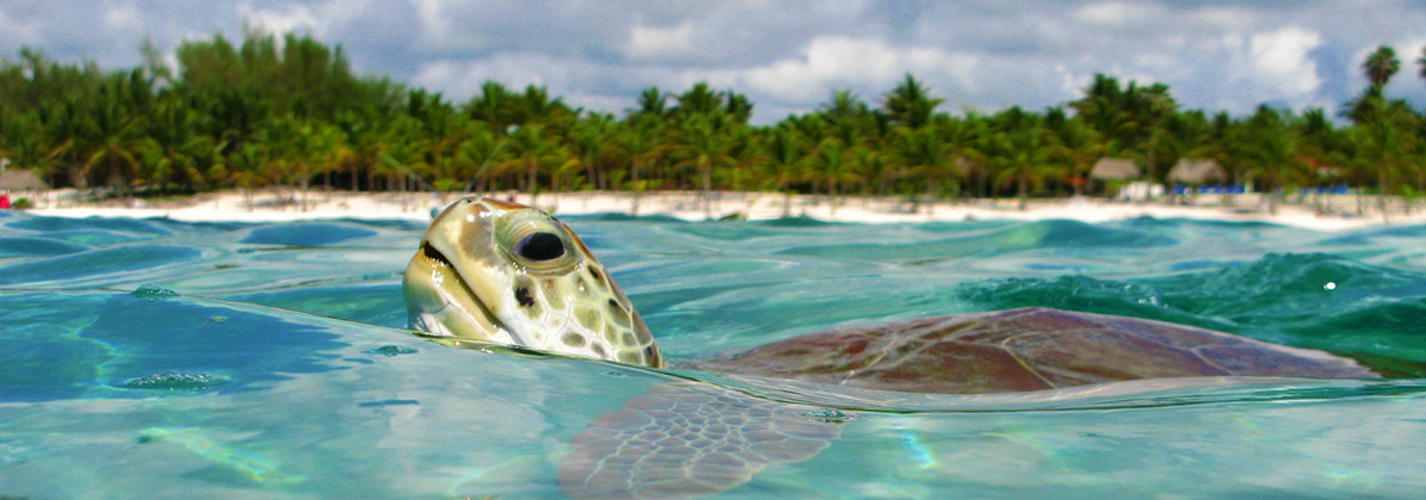
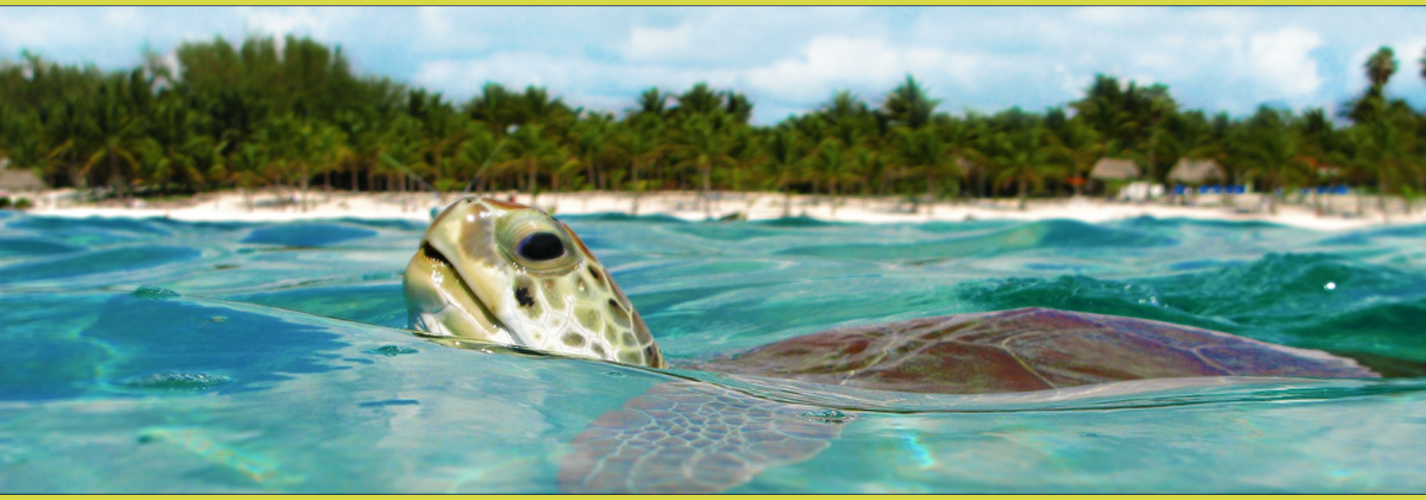
upload

diff --git a/project4/css/main.css b/project4/css/main.css
@@ -6,26 +6,40 @@
  */
  
 body {
-background: LightCyan;
+background: #193441;
 
  	}
 
 #container {
 	position: relative;
 	width: 100%;
-/* 	background-color: HoneyDew; */
 	margin: 2% auto;
  	}
  	
 div#callToAction {
 	width: 100%;
  	position: relative;
- 	background-color: LightSteelBlue;
- 	height: 500px;  /*  500px / 1183px  */
- 	background: url("../images/akumal.jpg");
  	background-repeat:no-repeat;
 	background-size:contain;
 	background-position:center;
+ 	}
+ 	
+ #call-out-title {
+ 	position: absolute;
+ 	width: 23%;
+ 	float: right;
+ 	font-family: 'Playfair Display', serif;
+ 	text-align: right;
+ 	top: 13%;
+ 	right: 5%;
+ 	font-size: 1.7em;
+ 	font-weight: bold;
+ 	font-style: italic;
+ 	color: #5F94F2;
+ 	text-shadow: 1px 1px 1px #91AA9D;
+/*  	box-shadow: 4px 4px 0 #333; */
+ 	background: rgba(252,255,245, 0.7);
+ 	padding: 0 2%;
  	}
 
 #mainContent, #secondaryContent, #connectContent {
@@ -38,18 +52,18 @@ div#callToAction {
 	}
 	
 footer {
-	width: 90%;
-	margin: 1% auto;
+	width: 100%;
+	margin-top: 1%;
 	background-color: CornflowerBlue;
 	text-align: center;
-	padding: 3% 5%;
+	padding: 0;
 	}
 	
 
 	
 .main-nav {
 	width: 70%;
-	background-color: rgba(255,255,255,0.5);
+	background-color: rgba(255,255,255,0.8);
 	margin: 2% 0;
 	padding: 2% 0;
 	text-align: center;
@@ -64,8 +78,10 @@ footer {
 	right: 0;
 	width: 100%;
 	margin: 0;
+	padding: 1%;
 	float: none;
 	z-index:1;
+	box-shadow: 1px 1px 70px #1A2842;
 	}
 	
 .rectangle {
@@ -94,6 +110,8 @@ footer {
 	
 h1 {
 	font-family: 'Leckerli One', cursive;
+	color: #5F94F2;
+	text-shadow: 1px 1px 70px #1A2842;
 	}
 	
 header {
@@ -108,6 +126,8 @@ header {
 h2 {
 	font-family: 'Playfair Display', serif;
 	font-size: 70%;
+	color: #fff;
+	text-shadow: 1px 1px 70px #1A2842;
 	}
 
 .divButton {
@@ -144,6 +164,10 @@ h2 {
 h3 {
 	margin-botom: 2%;
 	border-bottom: 1px solid black;
+	}
+	
+img {
+	max-width: 100%;
 	}
  
  

diff --git a/project4/index.html b/project4/index.html
@@ -45,6 +45,7 @@
 		
 		<!-- Favicon -->
 		<link rel="icon" type="image/png" href="images/favicooooooooon.png">
+<!-- MAKE A FAVICON -->
 		
 		
 	</head>
@@ -65,11 +66,17 @@
 			<div class="divButton ">Connect<a href="#"><span class="divButtonLink"></span></a></div>
 		</nav>
 		
+		
+		<div id="callToAction" class="clear">
+				<div id="call-out-title">
+					<p>“Akumal, the perfect diving and family destination in the heart of the Riviera Maya” <br> ---- FIX THIS BOX ----</p>
+				</div>
+				<img src="images/akumal.jpg" alt="" title=""/>
+			</div>
+		
 		<div id="container" class="clear">
 						
-			<div id="callToAction" >
-				<p>“Akumal, the perfect diving and family<br>destination in the heart of the Riviera Maya”</p>
-			</div>	
+				
 			
 			
 			<!-- START OF MAIN CONTENT DIV -->
@@ -150,7 +157,26 @@
 		</div> <!-- END OF CONTAINER DIV -->
 		
 		<footer>
-		footer goes here 
+		
+			<hr>
+			
+			<!-- Start of footer table -->
+			<table id="footTable">
+				<tr>
+					<td>
+						<p><a href="index.html">Home</a><br><a href="#about">About</a><br><a href="#gallery">Gallery</a><br><a href="#info">Get info</a><br><a href="#connect">Connect</a><br><a href="#top">Back to Top</a></p>
+					</td>
+					
+					<td>
+						<p><strong>Contact</strong><br>+1 (407) 679-6333<br><a href="mailto:jesherart@fullsail.edu">info@akumal-mexico.com</a><br><a href="#">@AkumalMexico</a><br><a href="#">fb.com/Akumal-Mexico</a></p>
+					</td>
+					
+					<td id="column3">
+						<p>social media icons?<br>trip advisor link maybe</p>
+					</td>
+				</tr>
+			</table>
+			<!-- End of footer table -->
 		</footer>
 	</body>
 	
